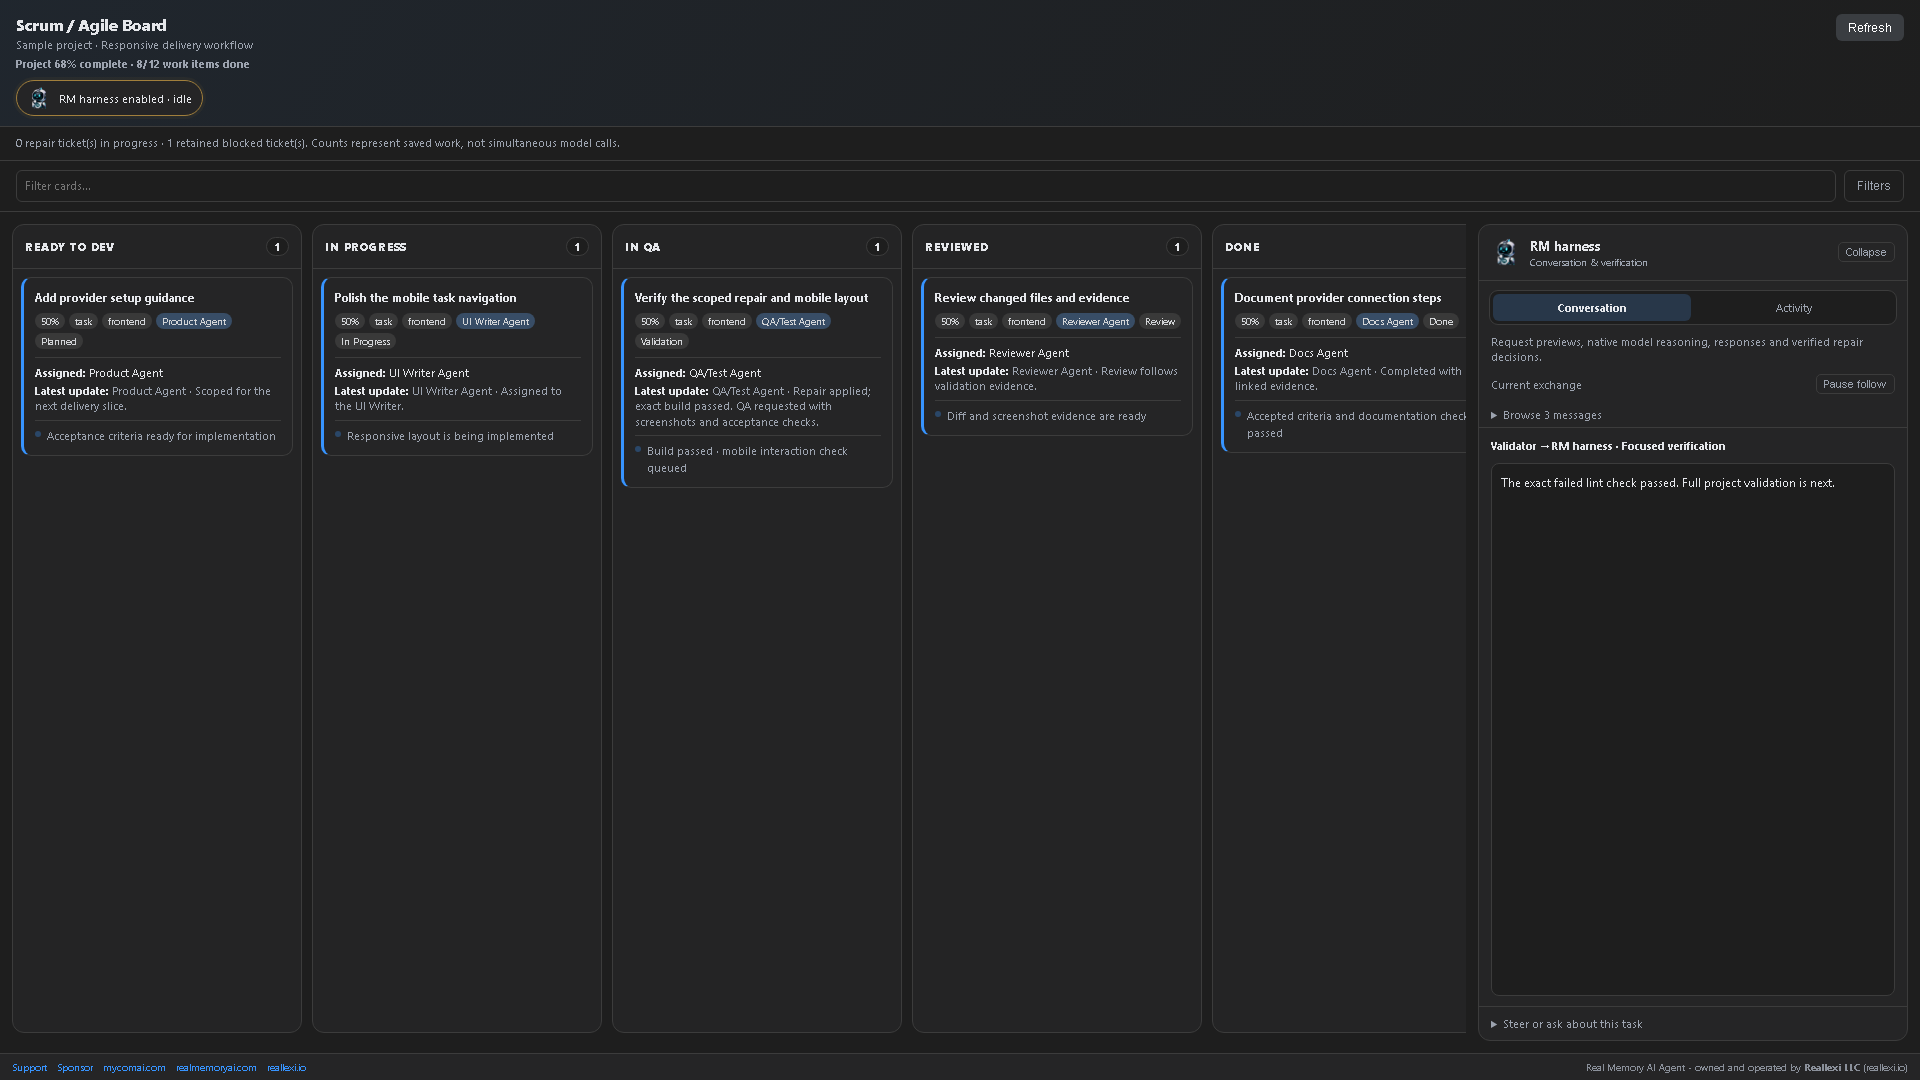
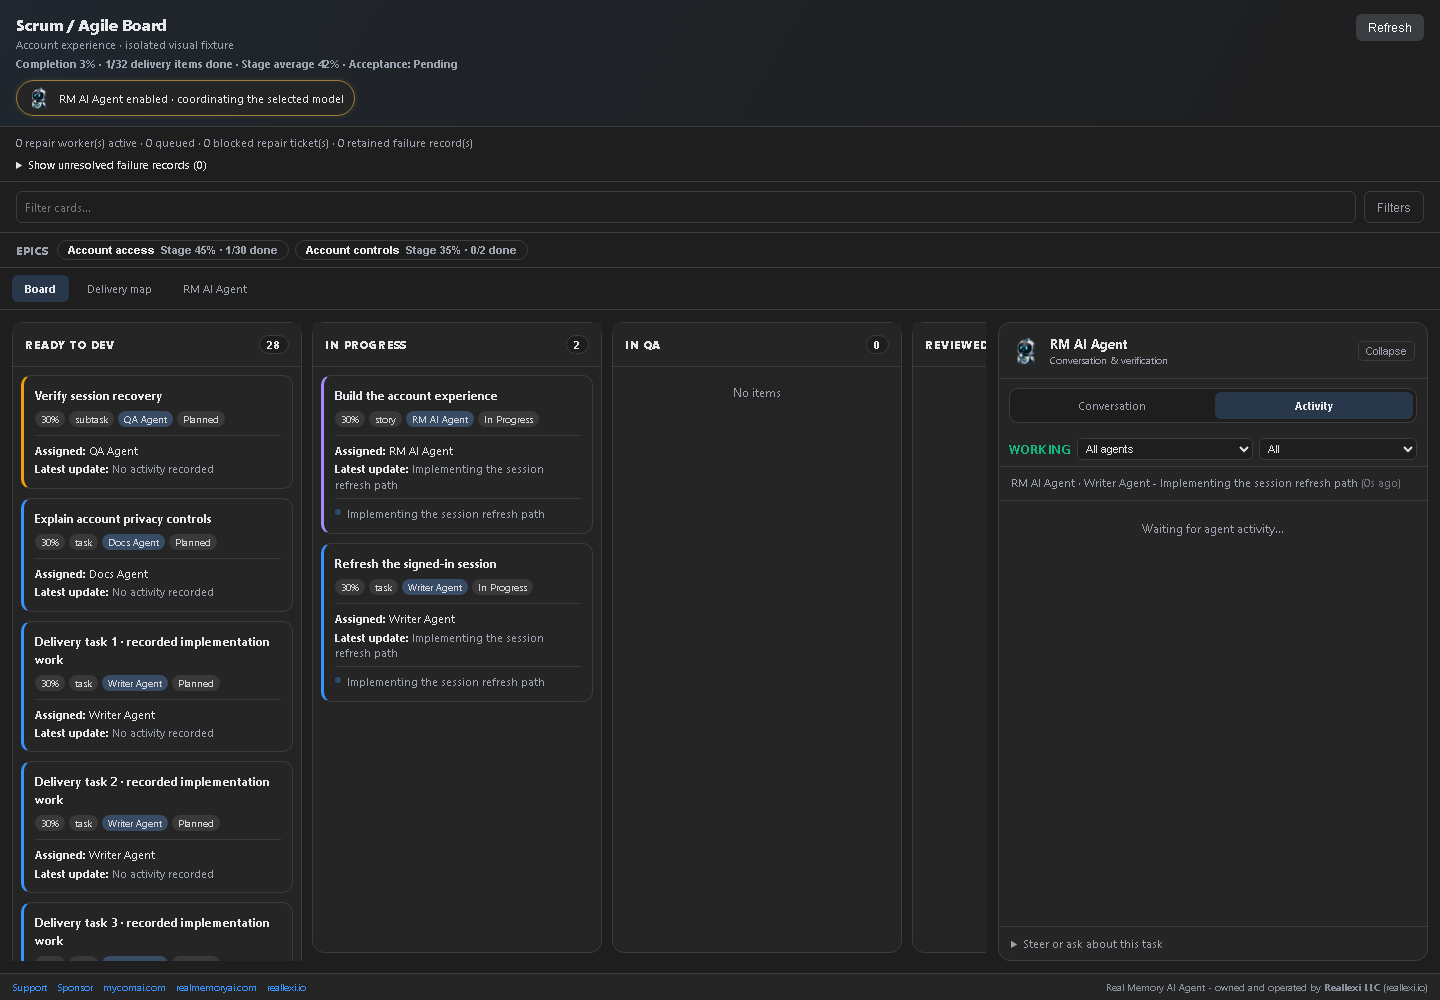
Document connected Scrum wall with sample screenshots and verification proof

diff --git a/realmemory/README.md b/realmemory/README.md
@@ -1,100 +1,33 @@
-# RM AI Agent 1.5.314 — Bounded preservation recovery
+# Real Memory AI Agent — connected Scrum delivery wall
 
-Optional project guidance, verified repair memory and bounded recovery for the VS Code agent, with synchronized browser and npm CLI builds.
+# Connected Scrum delivery wall — 1.6.337
 
-## What changed
+## VS Code connected delivery wall
 
-- When a Writer proposes a destructive whole-file replacement, it gets one bounded correction grounded in the current source. If that correction is also destructive—even when disguised as a `replacements[]` entry covering most of the file—the harness parks the chunk immediately instead of repeating the same request through eight cooldown attempts. The blocker follows automatic same-specification continuation while the protected source SHA-256 is unchanged; a legitimate edit invalidates it and reopens repair. Provider stalls, rate limits and stale anchors keep their normal retry behavior.
-- Filename-less ESLint configuration syntax failures are localized before a model repair begins. The harness runs a read-only syntax check across the active package's existing flat configs and inherited ancestor configs, identifies the one malformed file, fingerprints that exact failure, and limits repair to the proven config. One proven missing closer is repaired locally. Every local or model-produced config candidate must parse before it can replace disk bytes, preventing alternating malformed writes. Application components are never guessed from an ESM loader-only stack.
-- Malformed structured Ollama responses that repeat the RM output-boundary key are cancelled before the repeated protocol text reaches the Harness reader. Partial output is never applied, one same-model recovery keeps the original task evidence, and a second failure stops at `provider_retry` instead of streaming forever.
-- Adaptive harness controls are beside the VS Code model and flow selectors.
-- Project guidance lets you save corrections and preferences explicitly.
-- Verified repair memory is a separate opt-in. It records involved file paths and a successful-validation observation after a diagnosed repair passes its check.
-- Automatic repair can be disabled. A per-fingerprint limit prevents repeated diagnosis attempts from gaining a fresh budget through Continue.
-- Ollama recovery detects sustained repeated reasoning and numeric narrative cycles. It tries one output recovery; a repeated failure follows the existing provider retry/failover path. Distinct long reasoning and structured patches containing numeric fixtures remain supported.
-- Authentication browser failures identify inspected hashing-source files. The repair instruction requires executable digest computation with the actual algorithm, salt, encoding and length, followed by valid and invalid sign-in checks. A plausible-looking model-generated hash is not verification.
-- The Scrum board now has bounded horizontal lanes and a dedicated Harness reader with Conversation and Activity tabs. Narrow views switch between Board and Harness, and reduced-motion preferences are respected.
-- A scoped validation repair reruns the exact failed check first, then the full project validation. The focused pass verifies the fix but cannot mark the project complete by itself.
-- Concrete ESLint rule-loader errors use the configured rule, resolved rule, and plugin in their fingerprint, so genuinely new rule failures receive separate bounded repair opportunities while identical failures remain capped.
-- A single verified ESLint 8 `no-unassigned-vars` key is repaired locally to `no-unused-vars`; ambiguous configuration is left for review instead of accepting another model-only success claim.
+Open **RM AI Agent: Scrum / Agile Board → Delivery map** to follow recorded feature, request, task and subtask links. Ticket colors show their current stage. Red links identify blocked prerequisites, amber links show unfinished prerequisites, and green animated links identify active work. Select a ticket to inspect prerequisites, the work it blocks, design notes, files and evidence. Drag the background to pan, change zoom, or use **Fit wall**. The Kanban board scrolls vertically and horizontally and preserves its position during refreshes.
 
-## Settings screenshots
+A fully delivered development ticket can reach Done before the separate final Validator runs. Done on a development ticket records implementation delivery; feature acceptance and project completion still need their validation evidence. Partial writes and model replies alone do not close tickets.
 
-![Adaptive harness desktop settings](releases/1.5.309/adaptive-harness-desktop.png)
+![Connected delivery wall with active and blocked dependencies](https://raw.githubusercontent.com/ddkits/Reallexi-Public-media-and-files/main/realmemory/releases/1.6.337/after-map-1440.png)
 
-![Adaptive harness compact settings](releases/1.5.309/adaptive-harness-compact.png)
+![Mobile delivery wall](https://raw.githubusercontent.com/ddkits/Reallexi-Public-media-and-files/main/realmemory/releases/1.6.337/after-map-390.png)
 
-![Harness and Scrum workspace](releases/1.5.309/harness-board-desktop.png)
+These are actual Chromium renders of the VS Code webview with explicitly labelled sample project data. They demonstrate UI behavior, not a live model run or completed customer project. This map is a VS Code feature; browser and CLI interfaces retain their own views. [Screenshots, before/after evidence and verification notes](https://github.com/ddkits/Reallexi-Public-media-and-files/blob/main/realmemory/releases/1.6.337/README.md).
 
-![Harness message reader](releases/1.5.309/harness-chat-compact.png)
+### Before and after
 
-These are screenshots of the actual source-rendered VS Code webview in Chromium, using the same Controller route at 1024×1000 and 320×1000. The compact view is scrolled to Model flow. They demonstrate settings layout and messages, not a live installed model mission. Before/after comparison and raw test logs stay in private release evidence.
+The same sample project, route, theme and viewport were used for each pair: desktop 1440 × 1000 and mobile 390 × 844. Before, vertical scrolling was disabled and task dependencies shared one column. After, the board has a shared vertical scroll surface and dependency-aware colored wall. The desktop map uses the full workspace width. Red prerequisite links and ticket notes identify what blocks what; Fit wall and pan support longer plans.
 
-## Install and start
+[Image hashes and measured scroll evidence](visual-proof.json). These captures contain sample data only. Private prompts, provider replies, source files, runtime databases and user logs are excluded.
 
-### VS Code
+### Verification boundary
 
-Install the [audited 1.5.314 VSIX](https://github.com/ddkits/Reallexi-Public-media-and-files/releases/download/rmai-v1.5.314/real-memory-ai-agent-1.5.314.vsix) through **Extensions → … → Install from VSIX**. Reload VS Code after replacing an installed version.
+UI and scheduler regression checks are recorded separately from the original project. This release does not claim the paused original model run succeeded. Development completion and final project validation remain separate.
 
-Open a project folder, open RM AI Agent, and choose a provider and model. For local inference, connect the Ollama or llama.cpp server you already run. Use the connection test before sending a task. Choose Agent mode for implementation work, and review the active approval settings before allowing file changes or commands.
+### Blockers and compact overview
 
-### CLI
+![Recorded blocker notes](https://raw.githubusercontent.com/ddkits/Reallexi-Public-media-and-files/main/realmemory/releases/1.6.337/after-map-blockers-1440.png)
 
-```sh
-npm install --global ./reallexi-rmai-1.5.314.tgz
-rmai --version
-rmai settings
-rmai chat --project .
-rmai run "Fix the failing tests" --dry-run
-```
+![Fit wall on a compact screen](https://raw.githubusercontent.com/ddkits/Reallexi-Public-media-and-files/main/realmemory/releases/1.6.337/after-map-fit-390.png)
 
-First download the [audited CLI tarball](https://github.com/ddkits/Reallexi-Public-media-and-files/releases/download/rmai-v1.5.314/reallexi-rmai-1.5.314.tgz). Node.js 18 or newer is required. The CLI is independent of the VS Code extension. These Adaptive harness controls are currently a VS Code feature; the CLI and Chrome/Edge clients keep their own settings.
-
-## Enable the harness
-
-1. Open **RM AI Agent → Settings → Controller**.
-2. Select your provider, model and flow.
-3. Turn **Adaptive harness** on. It defaults off.
-4. Enter your preferences in **Project guidance**, for example: “Reuse the existing API; preserve unrelated files; run the owning package tests.”
-5. Turn **Remember verified repairs** on only if you want successful path/outcome observations saved. It defaults off.
-6. Choose **Automatic repair** and a **Harness repair limit** from 1 to 5. Automatic repair defaults on within the optional harness, and the limit defaults to 2. Existing safety limits still apply.
-7. Review **Verified repair memory** whenever needed. Edit it or clear the field to forget observations.
-
-## What learning means
-
-This feature does not train or modify model weights. It supplies reviewable project guidance and relevant historical observations to the selected model. It does not automatically treat every chat correction, failed attempt or model explanation as a permanent instruction.
-
-Learned observations contain file paths and successful validation outcomes. They do not copy raw diagnostics, credentials, source or reasoning into this memory. A saved observation is supplied only when its file path matches current context, and must be checked against current source. You can edit or clear both guidance and memory.
-
-Settings saved by these controls are scoped to the current workspace. The selected provider determines where inference runs. A hosted provider receives the context supplied to that model; choosing a local provider keeps inference on that local endpoint. Do not put credentials in project guidance.
-
-## Failure and recovery behavior
-
-The workflow is request → inspect → implement → validate → diagnose → submit scoped repair → rerun the exact failed check → full validation. A focused pass verifies the fix but cannot close the project. A failed check is retained as evidence and does not become a successful result merely because the model says it is fixed.
-
-The harness limit applies to the existing persisted failure fingerprint, including its recorded count. Continue does not clear that history. Disable Automatic repair to retain the failure for review before another automatic diagnosis/repair attempt. Reaching either the harness limit or an existing safety budget blocks further attempts for that failure. Inspect the retained cause, source, command output and environment before deciding what to change.
-
-For a documented sign-in failure, inspect the current README credential, authentication seed and verifier together. Compute the digest with executable code, retain the documented credential and rejection behavior, rebuild the owning API, and verify that the running server uses the rebuilt code. The extension repair adds evidence and ownership guidance; it does not silently rewrite a user's application seed or live task database.
-
-## Validation and release status
-
-The full suite passed 3,144 tests, with one POSIX-only test skipped on Windows. The required `npm run package` completed for 1.5.314, 62 focused post-package checks passed, and package/credential audits plus the standalone CLI publication dry-run passed. The user-provided 1.5.312 trace is the before-state evidence: the preservation guard correctly rejects destructive `server.js` rewrites, but the pool repeats the unchanged initial/correction pair through all eight attempts and automatic continuation can restart it. The regressions prove the second destructive answer parks immediately, survives an unchanged continuation, and reopens only when source evidence changes.
-
-The packaged VSIX, Chrome/Edge ZIPs and CLI tarball were inspected: no private source entries, source maps or matching local credential values were found. The installed VSIX runtime hash matches the source build. Checksums are in [SHA256SUMS](releases/1.5.312/SHA256SUMS).
-
-The production dependency audit still reports two high-severity findings in the existing Node 18 compatibility LangChain/Zod chain. This release is not described as vulnerability-free or fully published. The original application's live sign-in mission was not rerun or manually marked complete; its seed and runtime database were preserved.
-
-Publication outcomes:
-
-- Private source, tag and release `v1.5.312` pushed: [source commit](https://github.com/ddkits/Ollama-VScode-Free-Agent/commit/d3d3767ff2155b452b28c526cd75118dfafe22ec).
-- Audited packages are offered as [release downloads](https://github.com/ddkits/Reallexi-Public-media-and-files/releases/tag/rmai-v1.5.312).
-- Protected GitHub build/test passed. Protected npm publication failed with registry E404/permission for the first `@reallexi/rmai-ui-*` package, and Marketplace publication failed because the configured publisher PAT is unauthorized. Exact run links and error scope are in the [1.5.312 release guide](releases/1.5.312/README.md); the downloadable VSIX, browser ZIPs and CLI tarball remain available.
-
-Screenshots and documents are public; private source changes, regression tests, runtime databases, pasted traces and raw local proof remain outside this media repository.
-
-## Product and support
-
-- Product: https://realmemoryai.com
-- Publisher: https://reallexi.io
-- Sponsors: https://github.com/sponsors/ddkits
-- Support: https://reallexi.io/support
+Verification: 292 focused checks pass, 38 packaged checks pass, 44 artifact checks pass, and TypeScript checks pass. Browser fixtures verify source-rendered UI, not installed VS Code or the paused original model run.

diff --git a/realmemory/releases/1.6.337/README.md b/realmemory/releases/1.6.337/README.md
@@ -1,0 +1,31 @@
+# Connected Scrum delivery wall — 1.6.337
+
+## VS Code connected delivery wall
+
+Open **RM AI Agent: Scrum / Agile Board → Delivery map** to follow recorded feature, request, task and subtask links. Ticket colors show their current stage. Red links identify blocked prerequisites, amber links show unfinished prerequisites, and green animated links identify active work. Select a ticket to inspect prerequisites, the work it blocks, design notes, files and evidence. Drag the background to pan, change zoom, or use **Fit wall**. The Kanban board scrolls vertically and horizontally and preserves its position during refreshes.
+
+A fully delivered development ticket can reach Done before the separate final Validator runs. Done on a development ticket records implementation delivery; feature acceptance and project completion still need their validation evidence. Partial writes and model replies alone do not close tickets.
+
+![Connected delivery wall with active and blocked dependencies](https://raw.githubusercontent.com/ddkits/Reallexi-Public-media-and-files/main/realmemory/releases/1.6.337/after-map-1440.png)
+
+![Mobile delivery wall](https://raw.githubusercontent.com/ddkits/Reallexi-Public-media-and-files/main/realmemory/releases/1.6.337/after-map-390.png)
+
+These are actual Chromium renders of the VS Code webview with explicitly labelled sample project data. They demonstrate UI behavior, not a live model run or completed customer project. This map is a VS Code feature; browser and CLI interfaces retain their own views. [Screenshots, before/after evidence and verification notes](https://github.com/ddkits/Reallexi-Public-media-and-files/blob/main/realmemory/releases/1.6.337/README.md).
+
+### Before and after
+
+The same sample project, route, theme and viewport were used for each pair: desktop 1440 × 1000 and mobile 390 × 844. Before, vertical scrolling was disabled and task dependencies shared one column. After, the board has a shared vertical scroll surface and dependency-aware colored wall. The desktop map uses the full workspace width. Red prerequisite links and ticket notes identify what blocks what; Fit wall and pan support longer plans.
+
+[Image hashes and measured scroll evidence](visual-proof.json). These captures contain sample data only. Private prompts, provider replies, source files, runtime databases and user logs are excluded.
+
+### Verification boundary
+
+UI and scheduler regression checks are recorded separately from the original project. This release does not claim the paused original model run succeeded. Development completion and final project validation remain separate.
+
+### Blockers and compact overview
+
+![Recorded blocker notes](https://raw.githubusercontent.com/ddkits/Reallexi-Public-media-and-files/main/realmemory/releases/1.6.337/after-map-blockers-1440.png)
+
+![Fit wall on a compact screen](https://raw.githubusercontent.com/ddkits/Reallexi-Public-media-and-files/main/realmemory/releases/1.6.337/after-map-fit-390.png)
+
+Verification: 292 focused checks pass, 38 packaged checks pass, 44 artifact checks pass, and TypeScript checks pass. Browser fixtures verify source-rendered UI, not installed VS Code or the paused original model run.

diff --git a/README.md b/README.md
@@ -7,6 +7,20 @@ Public README, store, and hosted-policy assets live here.
 - `realmemory/` - assets for Real Memory Browser Agent.
 - `store/` - legacy/shared store media.
 
+
+## VS Code connected delivery wall
+
+Open **RM AI Agent: Scrum / Agile Board → Delivery map** to follow recorded feature, request, task and subtask links. Ticket colors show their current stage. Red links identify blocked prerequisites, amber links show unfinished prerequisites, and green animated links identify active work. Select a ticket to inspect prerequisites, the work it blocks, design notes, files and evidence. Drag the background to pan, change zoom, or use **Fit wall**. The Kanban board scrolls vertically and horizontally and preserves its position during refreshes.
+
+A fully delivered development ticket can reach Done before the separate final Validator runs. Done on a development ticket records implementation delivery; feature acceptance and project completion still need their validation evidence. Partial writes and model replies alone do not close tickets.
+
+![Connected delivery wall with active and blocked dependencies](https://raw.githubusercontent.com/ddkits/Reallexi-Public-media-and-files/main/realmemory/releases/1.6.337/after-map-1440.png)
+
+![Mobile delivery wall](https://raw.githubusercontent.com/ddkits/Reallexi-Public-media-and-files/main/realmemory/releases/1.6.337/after-map-390.png)
+
+These are actual Chromium renders of the VS Code webview with explicitly labelled sample project data. They demonstrate UI behavior, not a live model run or completed customer project. This map is a VS Code feature; browser and CLI interfaces retain their own views. [Screenshots, before/after evidence and verification notes](https://github.com/ddkits/Reallexi-Public-media-and-files/blob/main/realmemory/releases/1.6.337/README.md).
+
+
 ## Real Memory AI Agent
 
 [Product website](https://ddkits.github.io/Ollama-VScode-Free-Agent/) · [Public usage guide/wiki](https://ddkits.github.io/Ollama-VScode-Free-Agent/wiki/) · [Privacy](https://ddkits.github.io/Ollama-VScode-Free-Agent/privacy/) · [Terms](https://ddkits.github.io/Ollama-VScode-Free-Agent/terms/) · [Security](https://ddkits.github.io/Ollama-VScode-Free-Agent/security/).
@@ -27,4 +41,4 @@ These screenshots show the current product UI with sample project data; they are
 
 [Watch or download the captioned 21-second product trailer](realmemory/store/real-memory-ai-agent-trailer.mp4) · [Trailer captions](realmemory/store/real-memory-ai-agent-trailer-captions.vtt) · [Unified privacy policy](realmemory/store/real-memory-ai-agent-privacy-policy.md).
 
-[1.5.314 release guide, bounded preservation recovery, automatic-continuation safety, settings and screenshots](realmemory/releases/1.5.314/README.md). [Product guide](realmemory/README.md).
+[1.6.337 delivery wall, screenshots and verification notes](realmemory/releases/1.6.337/README.md). [Product guide](realmemory/README.md).

diff --git a/realmemory/public-files/README.md b/realmemory/public-files/README.md
@@ -1,0 +1,15 @@
+# Real Memory AI Agent
+
+
+## VS Code connected delivery wall
+
+Open **RM AI Agent: Scrum / Agile Board → Delivery map** to follow recorded feature, request, task and subtask links. Ticket colors show their current stage. Red links identify blocked prerequisites, amber links show unfinished prerequisites, and green animated links identify active work. Select a ticket to inspect prerequisites, the work it blocks, design notes, files and evidence. Drag the background to pan, change zoom, or use **Fit wall**. The Kanban board scrolls vertically and horizontally and preserves its position during refreshes.
+
+A fully delivered development ticket can reach Done before the separate final Validator runs. Done on a development ticket records implementation delivery; feature acceptance and project completion still need their validation evidence. Partial writes and model replies alone do not close tickets.
+
+![Connected delivery wall with active and blocked dependencies](https://raw.githubusercontent.com/ddkits/Reallexi-Public-media-and-files/main/realmemory/releases/1.6.337/after-map-1440.png)
+
+![Mobile delivery wall](https://raw.githubusercontent.com/ddkits/Reallexi-Public-media-and-files/main/realmemory/releases/1.6.337/after-map-390.png)
+
+These are actual Chromium renders of the VS Code webview with explicitly labelled sample project data. They demonstrate UI behavior, not a live model run or completed customer project. This map is a VS Code feature; browser and CLI interfaces retain their own views. [Screenshots, before/after evidence and verification notes](https://github.com/ddkits/Reallexi-Public-media-and-files/blob/main/realmemory/releases/1.6.337/README.md).
+
